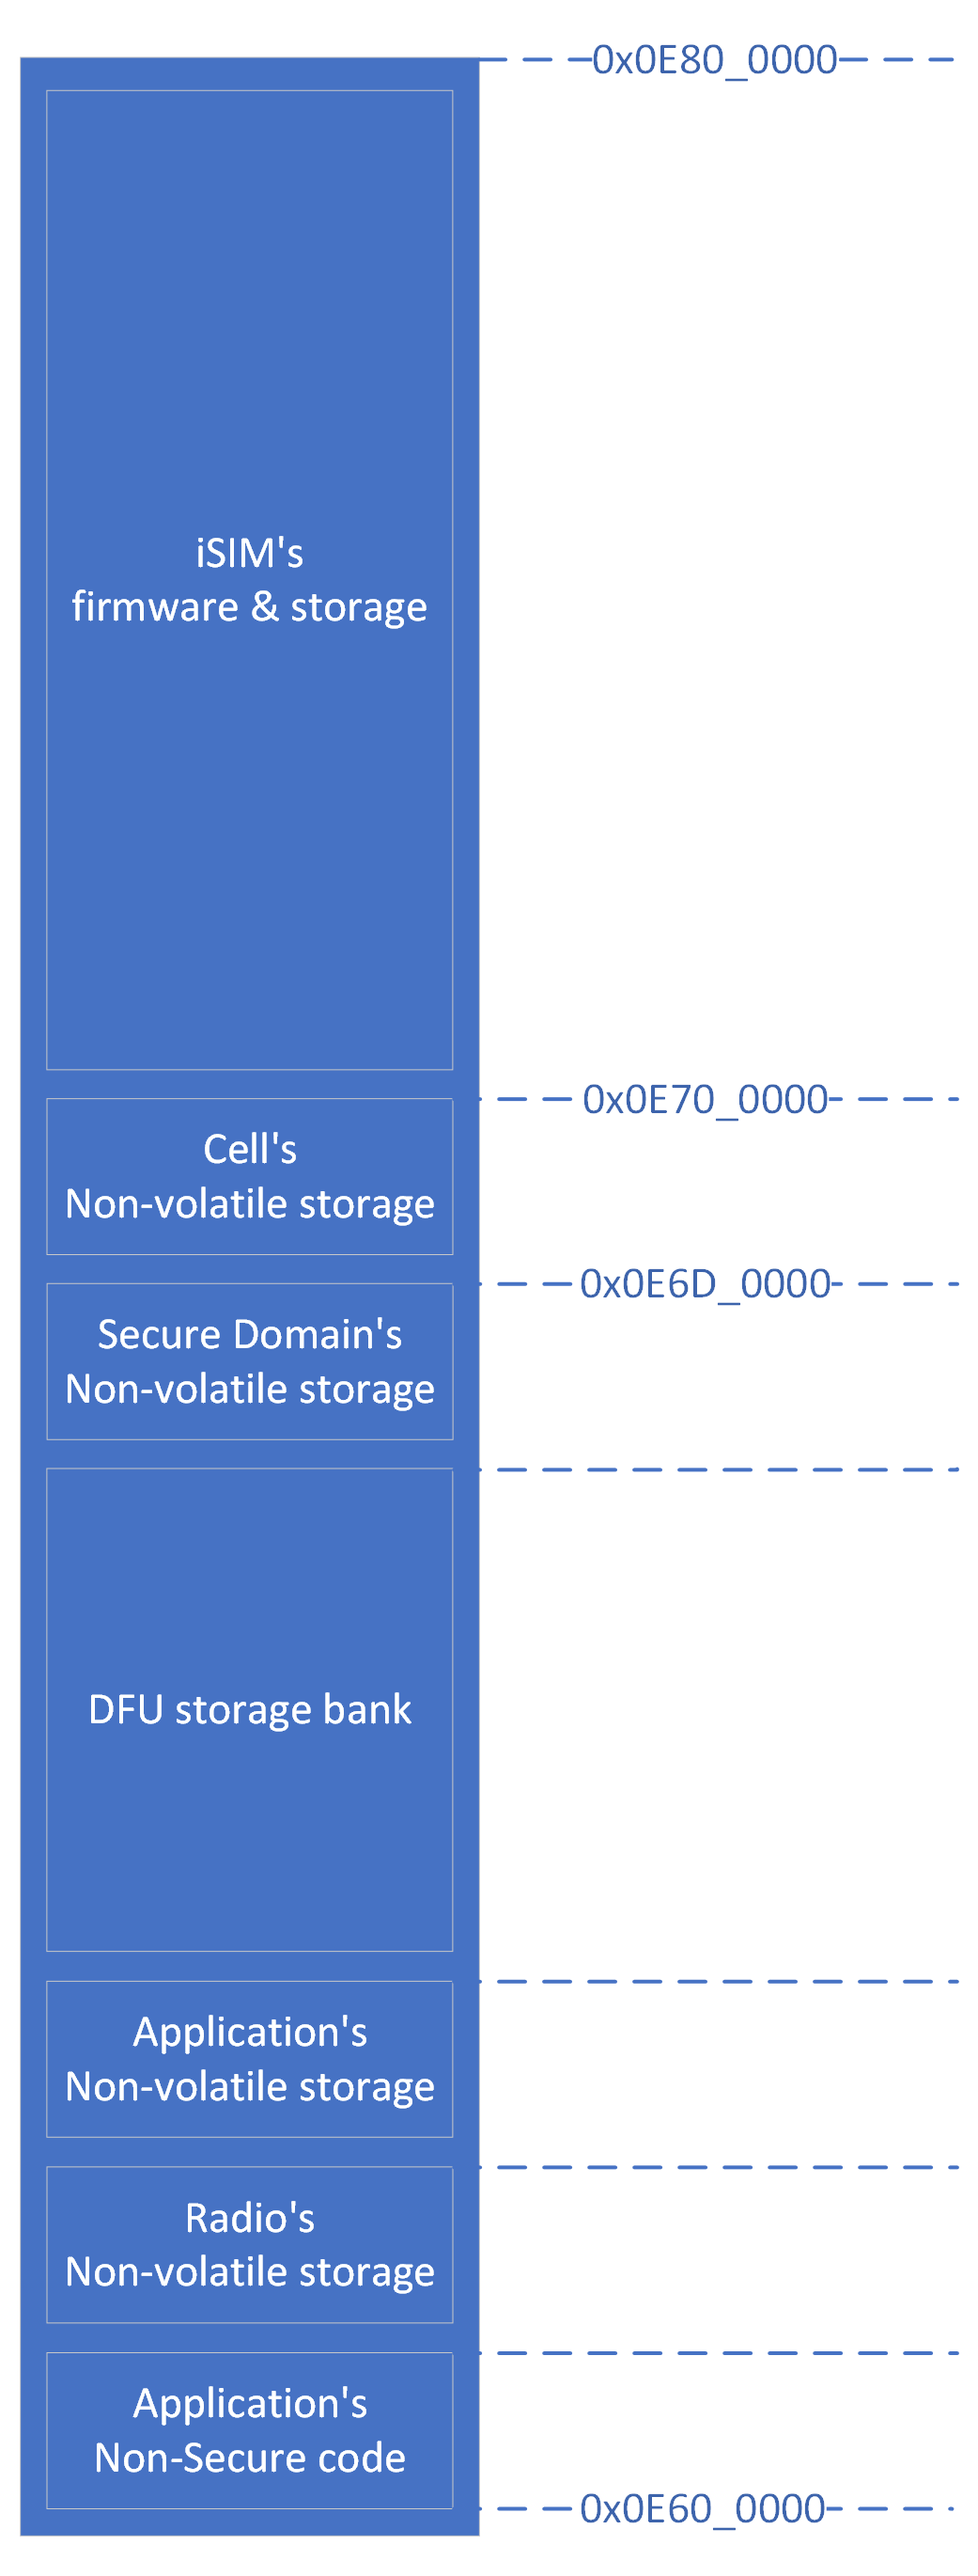
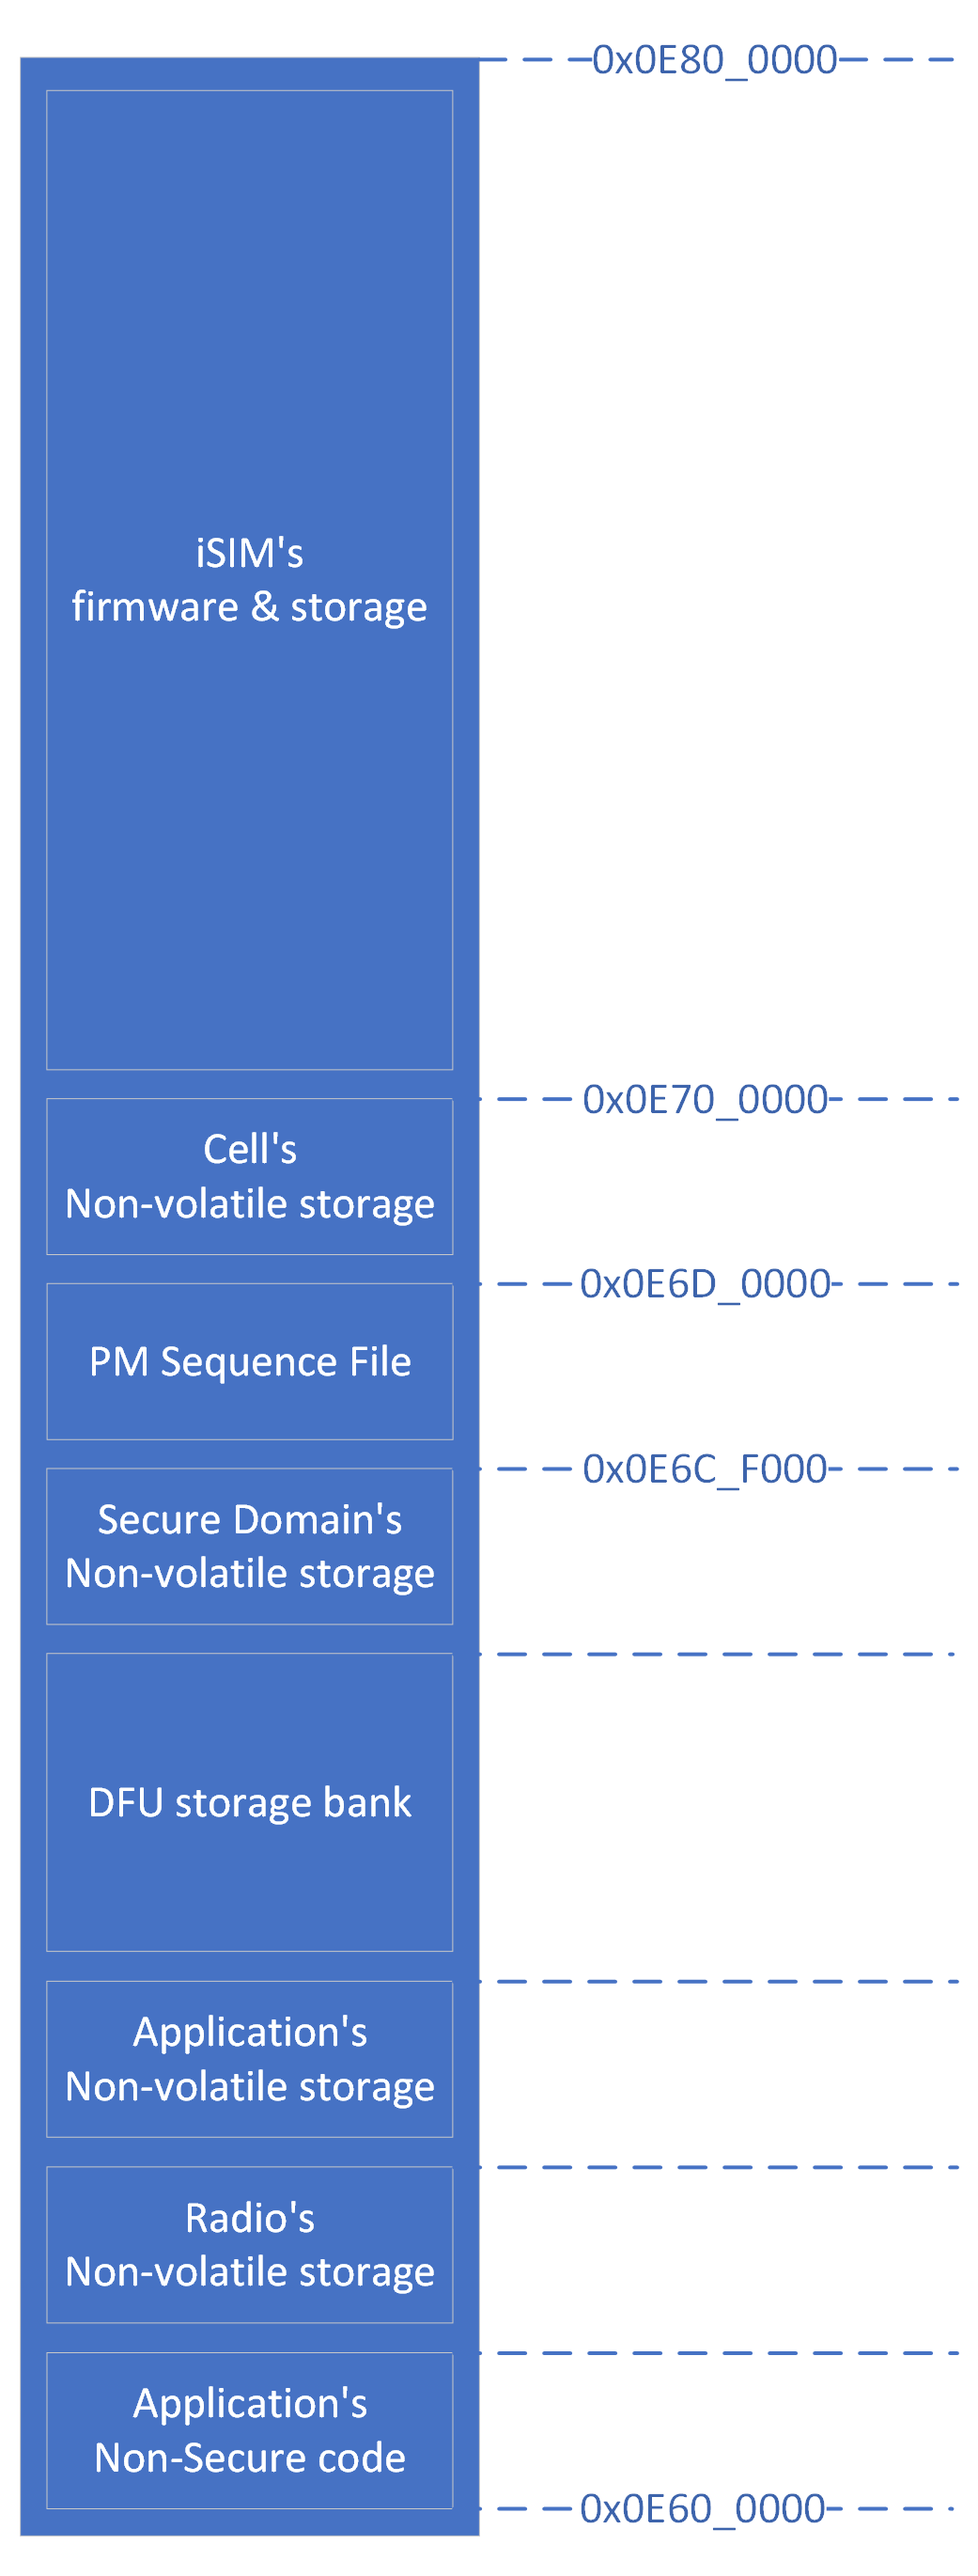
doc: nrf9230: add a memory partition for PM seq file
System Controller in nRF92 requires a Power Management Sequence File
stored in the NVM. This patch adds a partition for such file.

The location and size of this partition is temporary. It might be merged
or concatenated with the System Controller code partition in the future.

diff --git a/doc/nrf/ug_nrf92_architecture.rst b/doc/nrf/ug_nrf92_architecture.rst
@@ -338,28 +338,29 @@ The Secure Domain can access all the memory regions in the system and does not r
 
 The Secure Domain configures OVERRIDEs in MPC assigned to ``AXI_0`` to provide the needed access rights:
 
-===========  =====  ===========  ==========  ======================================================
-OVERRIDE Id  Owner  Permissions  SECUREMASK  Regions
-===========  =====  ===========  ==========  ======================================================
-3            All    R            any         App's and Radio's UICRs
-4            App    RW           1           Radio <-> App IPC; App's Non-Secure data
-5            App    RWS          1 *         SecDom <-> App IPC; App's Secure data
-6            App    RX           1           App's Non-Secure code
-7            App    RXS          0           App's S-NSC; App's Secure code
-8            Radio  RW           1           Radio <-> App IPC; Radio's Non-Secure data
-9            Radio  RWS          1 *         SecDom <-> Radio IPC; Radio's Secure data
-10           Radio  RX           1           Radio's Non-Secure code
-11           Radio  RXS          0           Radio's S-NSC; Radio's Secure code
-12           Cell   RW           1           Cell <-> App IPC; Cell's Non-Secure data
-13           Cell   RWS          1 *         SecDom <-> Cell IPC; Cell's Secure data
-14           Cell   RX           1           Cell's Non-Secure code
-15           Cell   RXS          0           Cell's S-NSC; Cell's Secure code
-17           All    R            1           Cell's UICR
-21           ISIM   RWX          0           ISIM's code and storage
-29           App    RW           1           App's NV storage; DFU storage bank
-30           Radio  RW           1           Radio's NV storage
-31           Cell   RW           1           Cell's NV storage
-===========  =====  ===========  ==========  ======================================================
+===========  =======  ===========  ==========  ======================================================
+OVERRIDE Id  Owner    Permissions  SECUREMASK  Regions
+===========  =======  ===========  ==========  ======================================================
+1            SysCtlr  RS           1 *         PM Sequence File
+3            All      R            any         App's and Radio's UICRs
+4            App      RW           1           Radio <-> App IPC; App's Non-Secure data
+5            App      RWS          1 *         SecDom <-> App IPC; App's Secure data
+6            App      RX           1           App's Non-Secure code
+7            App      RXS          0           App's S-NSC; App's Secure code
+8            Radio    RW           1           Radio <-> App IPC; Radio's Non-Secure data
+9            Radio    RWS          1 *         SecDom <-> Radio IPC; Radio's Secure data
+10           Radio    RX           1           Radio's Non-Secure code
+11           Radio    RXS          0           Radio's S-NSC; Radio's Secure code
+12           Cell     RW           1           Cell <-> App IPC; Cell's Non-Secure data
+13           Cell     RWS          1 *         SecDom <-> Cell IPC; Cell's Secure data
+14           Cell     RX           1           Cell's Non-Secure code
+15           Cell     RXS          0           Cell's S-NSC; Cell's Secure code
+17           All      R            1           Cell's UICR
+21           ISIM     RWX          0           ISIM's code and storage
+29           App      RW           1           App's NV storage; DFU storage bank
+30           Radio    RW           1           Radio's NV storage
+31           Cell     RW           1           Cell's NV storage
+===========  =======  ===========  ==========  ======================================================
 
 .. note::
    SECUREMASK can be set to ``0`` for any secure memory partition.
